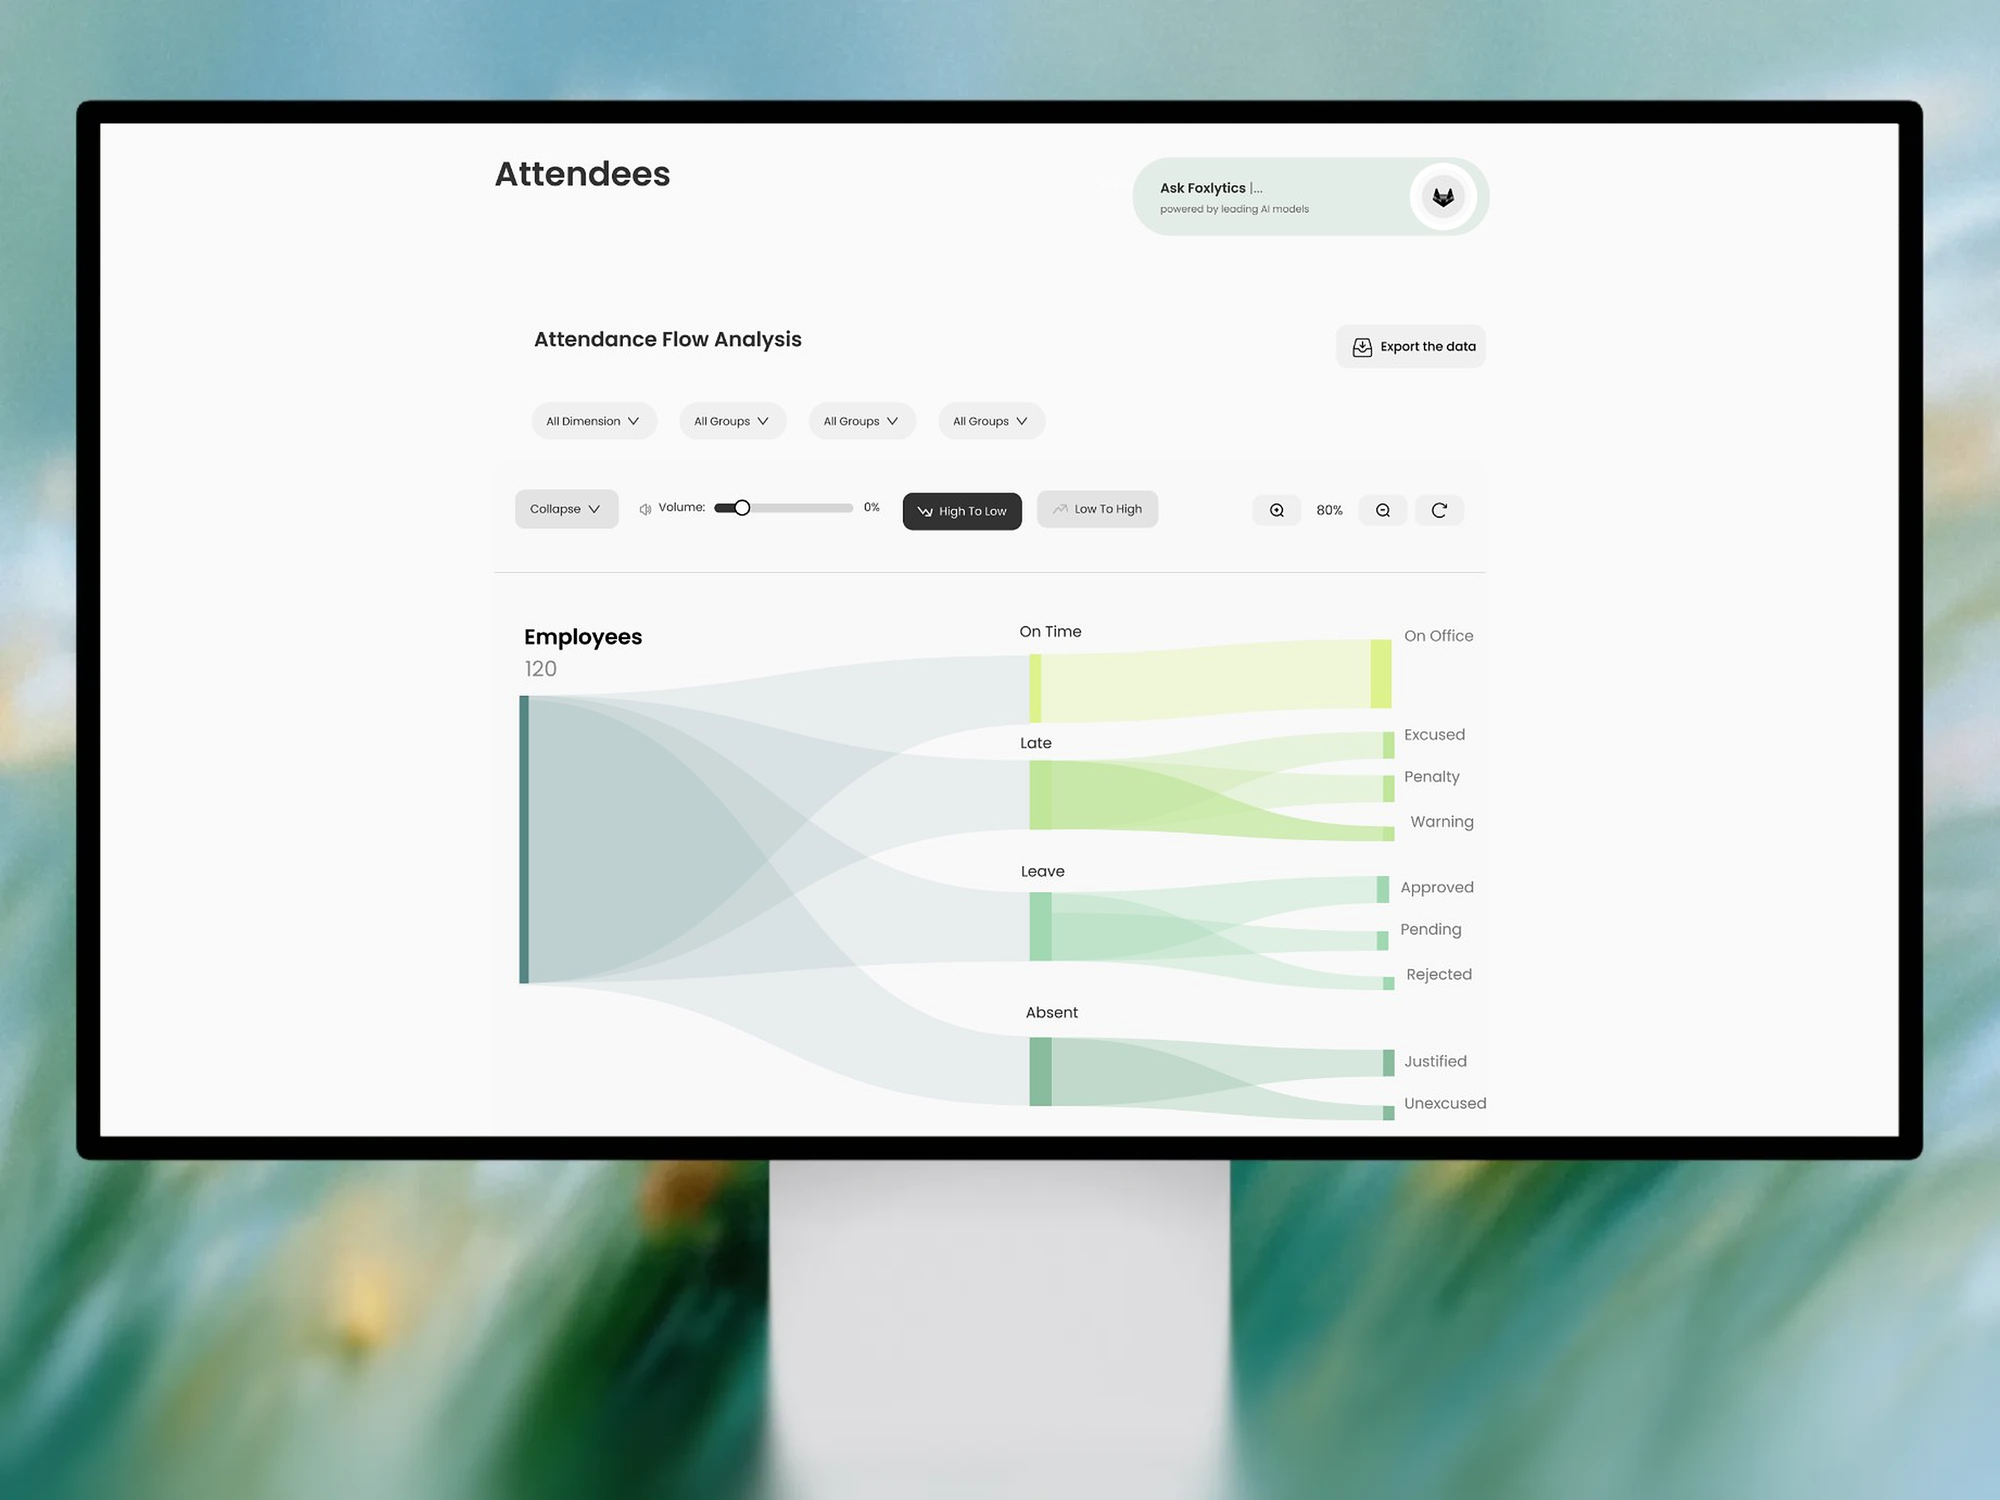
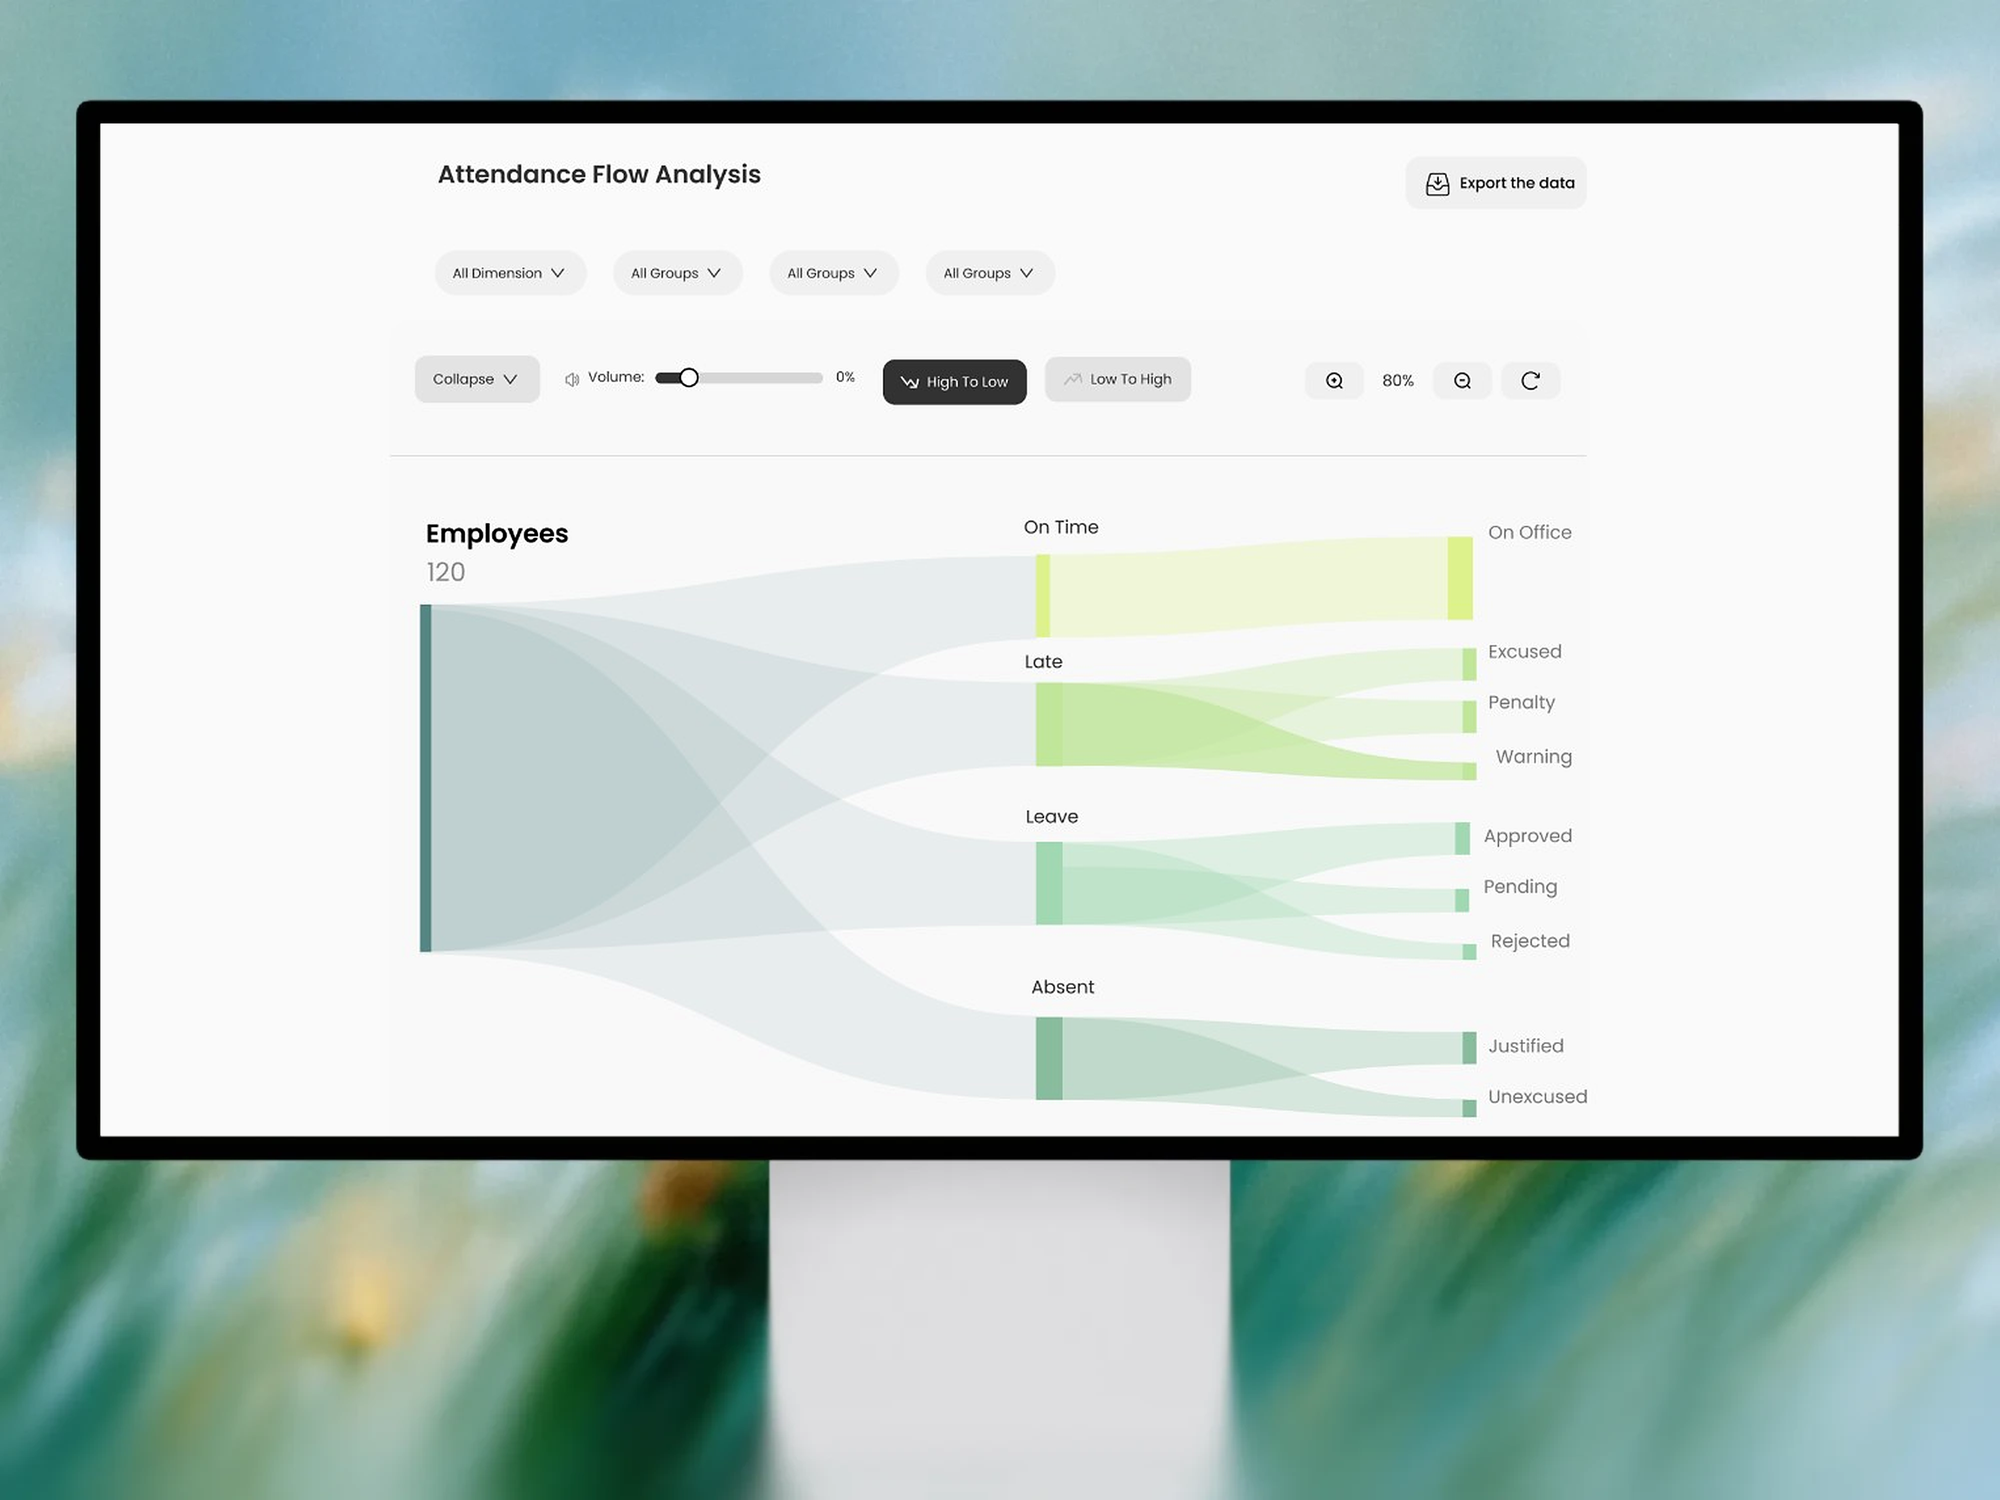
Attendees monitor: start at Attendance Flow Analysis, full chart
Claude-Session: https://claude.ai/code/session_01FdYAnoP1AuAPuCnLWf7gdc

diff --git a/behance-cover/mockups/set36.py b/behance-cover/mockups/set36.py
@@ -3,7 +3,7 @@
 # stretching on the page colour. 4000x3000 PNG (+2000, 1000) and 16:9 artboard.
 from PIL import Image, ImageFilter
 I = '/tmp/claude-0/-home-user-claude-Ai-website-1/fd49522e-f0ff-52ed-b6c7-08cca43cc4fd/images/'
-L, T, R, B = 100.5, 123.5, 1897.5, 1135.5; TOP, BOT = 180, 1112   # a bit more from the top (Attendees title, Ask Foxlytics) down to the chart's end
+L, T, R, B = 100.5, 123.5, 1897.5, 1135.5; TOP, BOT = 340, 1112   # from just above Attendance Flow Analysis down to the chart's end
 base = Image.open(I + '251.webp').convert('RGB'); page = Image.open(I + '252.jpg').convert('RGB')
 bg = page.getpixel((page.width // 2, page.height - 5)); asp = (R - L) / (B - T)
 h = BOT - TOP; w = round(h * asp); band = Image.new('RGB', (w, h), bg)
